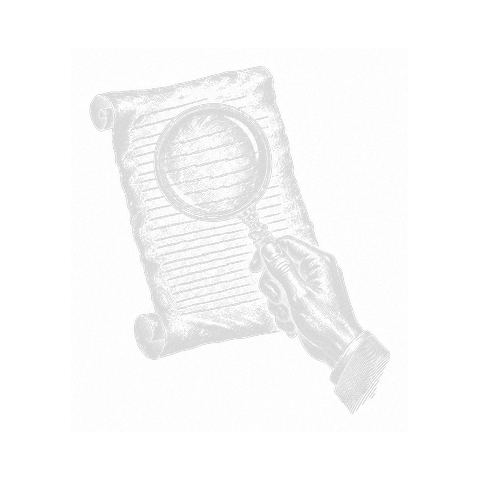
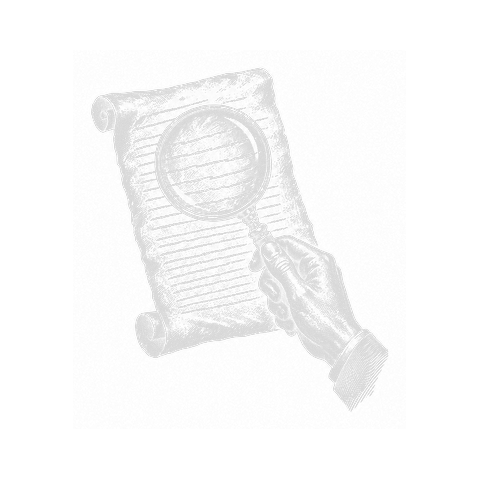
Duotone hero sui toni del brand, icone pain point grandi, bordi patti marcati
- Foto hero: colorize #35504e al 90% su grayscale — il verde acceso diventa
  il petrolio spento della tavola brand (match col plate v1)
- Icone porte a 136px con normalizzazione ottica ad area sulla tela quadrata
  (le incisioni larghe come martelletto e stretta non sembrano più piccole)
- Carte patti: bordo 3px pieno verde bosco / terracotta con anello esterno
  tenue e filo colorato sotto i titoli

diff --git a/assets/css/main.css b/assets/css/main.css
@@ -193,8 +193,8 @@ html:not(.js) .stickybar { display: none; }
   z-index: 2;
 }
 .hero__arch-clip { display: block; position: relative; overflow: hidden; border-radius: 999px 999px 0 0; aspect-ratio: 3 / 4.05; background: var(--avorio-alto); }
-.hero__foto-img { width: 100%; height: 100%; object-fit: cover; object-position: 50% 16%; filter: grayscale(1) brightness(1.08) contrast(0.98); }
-.hero__arch-clip::before { content: ""; position: absolute; inset: 0; z-index: 1; background: var(--petrolio); mix-blend-mode: color; pointer-events: none; }
+.hero__foto-img { width: 100%; height: 100%; object-fit: cover; object-position: 50% 16%; filter: grayscale(1) brightness(1.04); }
+.hero__arch-clip::before { content: ""; position: absolute; inset: 0; z-index: 1; background: #35504e; mix-blend-mode: color; opacity: 0.9; pointer-events: none; }
 .hero__arch-clip::after { content: ""; position: absolute; inset: 0; z-index: 2; border-radius: 999px 999px 0 0; box-shadow: inset 0 0 0 1px rgba(20, 38, 31, 0.28); background: linear-gradient(180deg, rgba(242, 236, 224, 0.14) 0%, rgba(242, 236, 224, 0) 30%, rgba(17, 59, 68, 0.12) 100%); pointer-events: none; }
 
 /* Bottone primario */
@@ -243,12 +243,12 @@ html:not(.js) .stickybar { display: none; }
   border-radius: 999px 999px 0 0;
   color: var(--avorio-su-petrolio);
   min-height: 500px;
-  padding: 158px 34px 34px 34px;
+  padding: 200px 34px 34px 34px;
   transition: transform 600ms var(--ease-soft);
 }
 .porta__icona {
-  position: absolute; top: 46px; left: 50%; transform: translateX(-50%);
-  width: 88px; height: 88px; object-fit: contain; opacity: 0.95;
+  position: absolute; top: 36px; left: 50%; transform: translateX(-50%);
+  width: 136px; height: 136px; object-fit: contain; opacity: 0.95;
 }
 .porta:hover { transform: translateY(-8px); }
 .porta--abete { background: var(--verde-abete); }
@@ -408,8 +408,10 @@ html.js .statement__testo .cerchio path { transition-delay: 900ms; }
   padding: clamp(30px, 3.2vw, 48px) clamp(24px, 2.8vw, 42px) clamp(26px, 3vw, 40px);
   transition: transform 600ms var(--ease-soft), box-shadow 600ms var(--ease-soft);
 }
-.carta--si { transform: rotate(-0.55deg); border: 2px solid rgba(44, 111, 79, 0.7); }
-.carta--no { transform: rotate(0.6deg); border: 2px solid rgba(150, 80, 63, 0.65); }
+.carta--si { transform: rotate(-0.55deg); border: 3px solid var(--verde-bosco); box-shadow: 0 0 0 1px rgba(143, 203, 170, 0.35), 0 18px 44px rgba(5, 20, 22, 0.35); }
+.carta--no { transform: rotate(0.6deg); border: 3px solid #96503f; box-shadow: 0 0 0 1px rgba(230, 184, 178, 0.35), 0 18px 44px rgba(5, 20, 22, 0.35); }
+.carta--si .carta__titolo { border-bottom: 2px solid rgba(44, 111, 79, 0.55); padding-bottom: 12px; }
+.carta--no .carta__titolo { border-bottom: 2px solid rgba(150, 80, 63, 0.5); padding-bottom: 12px; }
 .carta:hover { transform: rotate(0deg) translateY(-4px); box-shadow: 0 26px 54px rgba(5, 20, 22, 0.42); }
 .carta__sigillo {
   position: absolute; top: -18px; right: 30px; z-index: 2;
